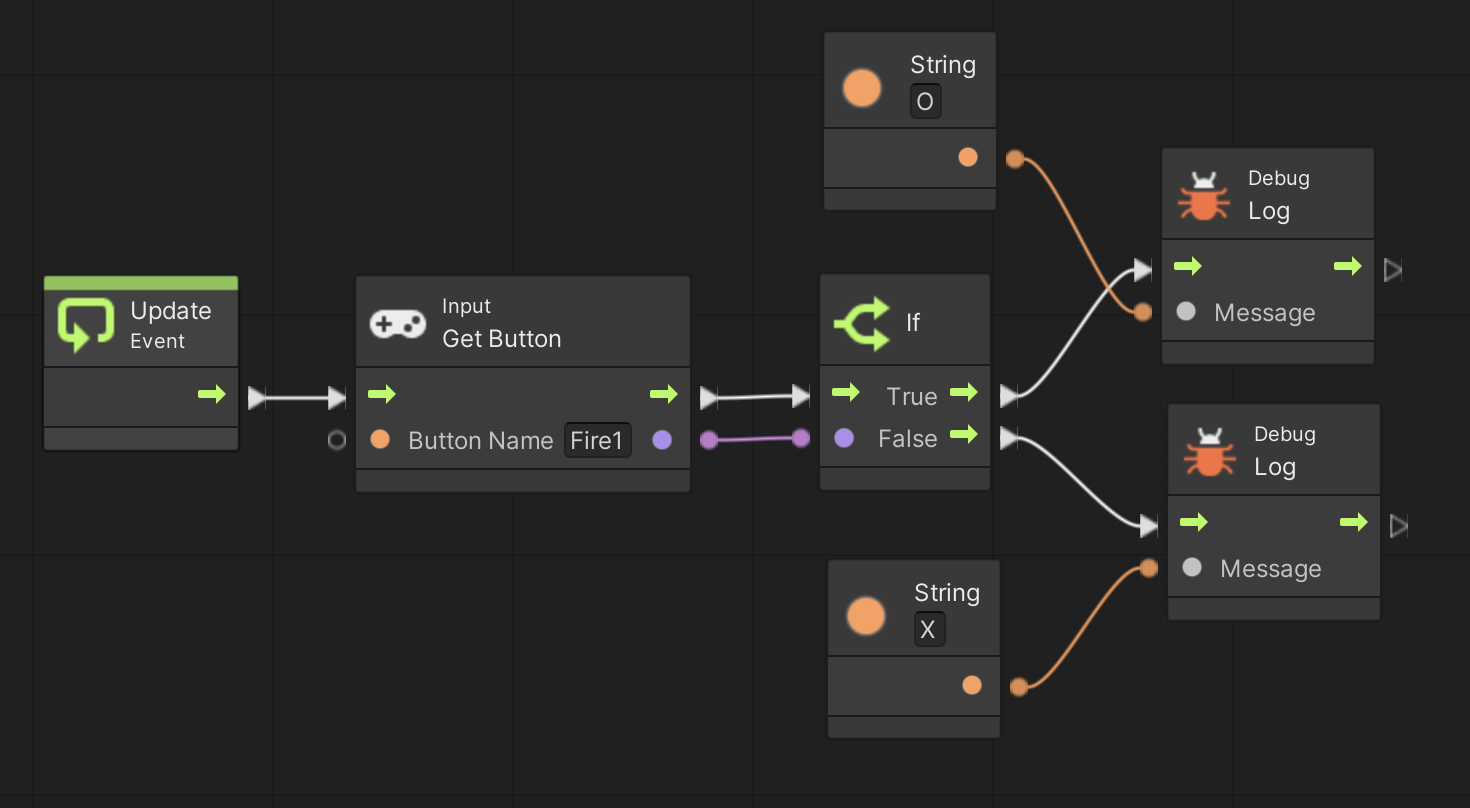
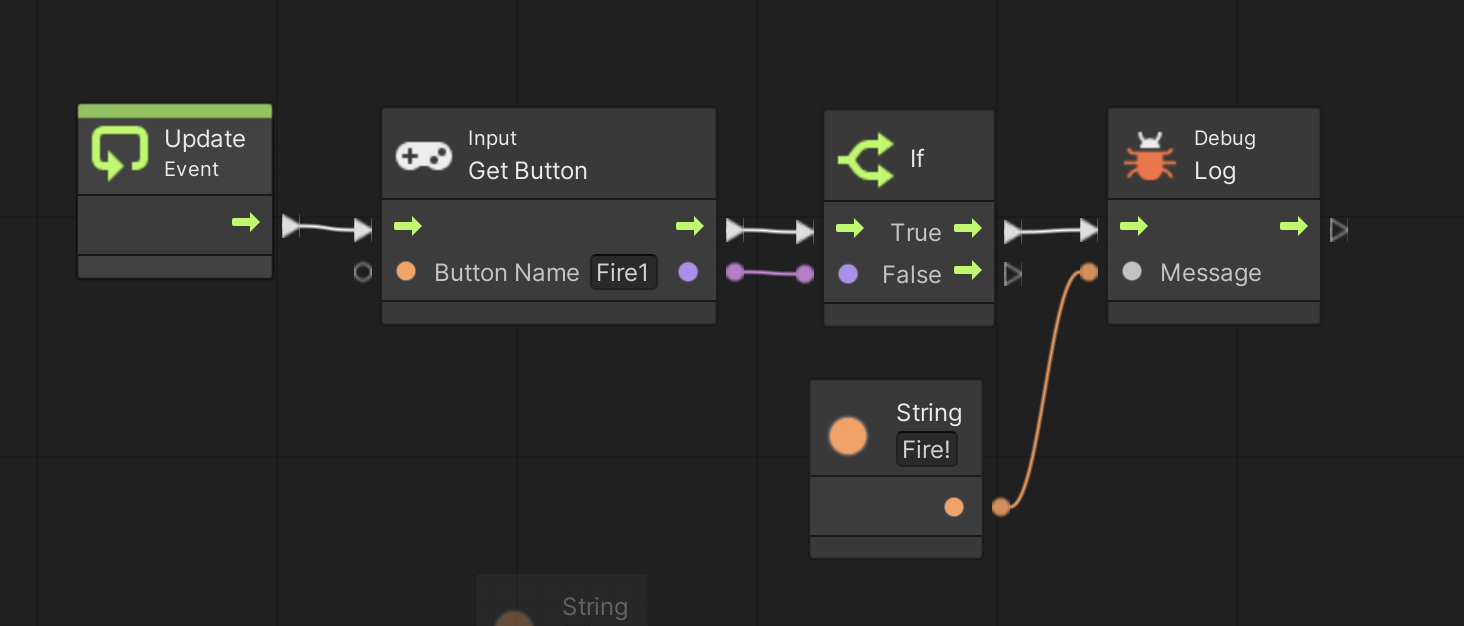
unity-basic更新

diff --git a/docs/activity/unity-basic/text02/page10.html b/docs/activity/unity-basic/text02/page10.html
@@ -139,10 +139,12 @@ Edit メニユー → Project Setting → Input Manager → Axes
 
 <p>
 弾を撃ったりジャンプしたりするためのボタン入力は Input Get Button ユニットで行えます。
+<br>
+なお Input Get Button ユニットにはいくつか種類がありますが、今回は Input Get Button ユニットと Input Get Button Down ユニット について説明します。 
 </p>
 
 <p>
-こちらもボタンの設定名と割当キーは
+さて、ボタンの設定名と割当キーも
 </p>
 <p>
 Edit メニュー → Project Setting → Input Manager → Axes
@@ -180,24 +182,40 @@ Edit メニュー → Project Setting → Input Manager → Axes
 
 <p>
 が割当たっています(もちろん設定の変更や追加も可能です)。
-<br>
-Input Get Button ユニットはこれらの入力がされている時は True、されていない時は False を出力します。
 </p>
 
 <p>
-では以下の図2を実行して下さい。
+では Input Get Button ユニットについて説明します。
 <br>
-うまく動いたらButton Name の「Fire1」を他の設定に変更して試して下さい。
+Input Get Button ユニットはボタンを押している間はずっと True、されていない時はずっと False を出力し続けます。
+<br>
+例えば以下の図2を実行し、Fire1 ボタンを押しっぱなしにしてみて下さい。
 </p>
 
 <br>
-<b>図2. ボタン入力の例 </b>
-<br>
+<p>
+<b>図2. Input Get Button ユニットによるボタン入力 </b>
+</p>
 <img src="./img/page10-fig2.png" alt="">
 
+<p>
+一方 Input Get Button Down ユニットはボタンが押された時に一度だけ True を出力します。
+<br>
+例えば以下の図 3 を実行して、Fire1 ボタンを押しっぱなしにして図 2 のスクリプトとの違いを確認して下さい。
+</p>
+
+<br>
+<p>
+<b>図3. Input Get Button Down ユニットによるボタン入力 </b>
+</p>
+<img src="./img/page10-fig3.png" alt="">
+
+<p>
+
+
 
 <br>
 <br>
-<script>PreNext(10,11)</script>
+<script>PreNext(10,12)</script>
 </body>
 </html>

diff --git a/docs/activity/unity-basic/index.html b/docs/activity/unity-basic/index.html
@@ -89,6 +89,8 @@
 <li><a href="./text02/page09.html">Update イベント</a></li>
 <li><a href="./text02/page10.html">コントローラ入力</a></li>
 <li><a href="./text02/page11.html">マウス入力</a></li>
+<li>State Machine</li>
+<li>コルーチン</li>
 </ol>
 </td>
 </tr>
@@ -126,7 +128,6 @@
 <li>BGM</li>
 <li>シーン移動</li>
 <li>アセットストア</li>
-<li>State Machine</li>
 </ol>
 <span class="prac"><a href="./text04/faq.html">FAQ</a></span>
 </td>
